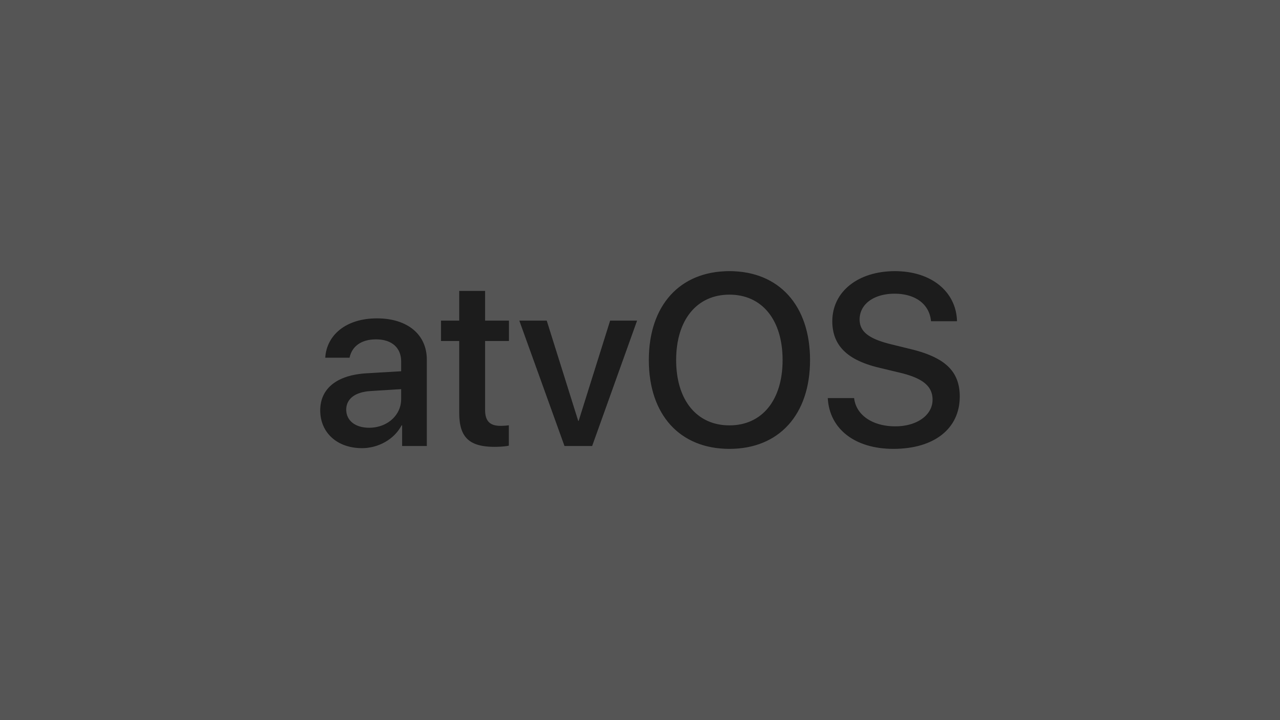
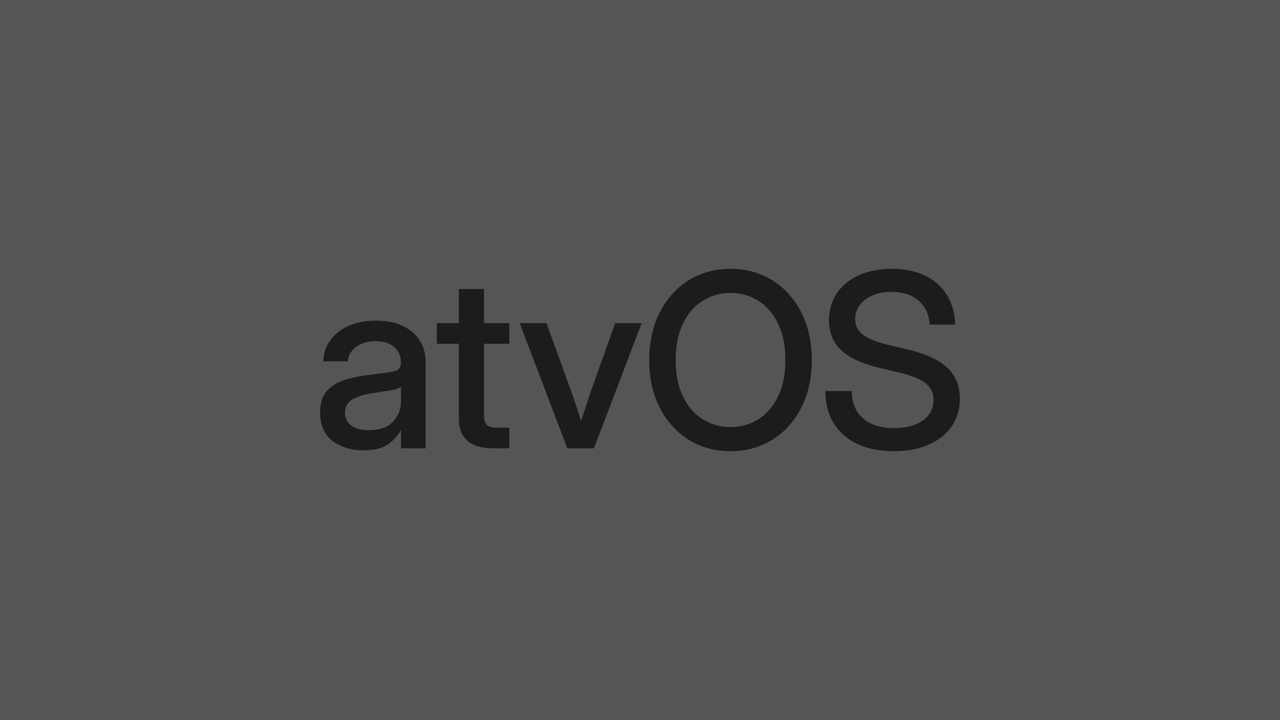
App: the atvOS wordmark in Inter
The wordmark of the app icon, the TV banner and the logo tile in Settings and
setup is now "atvOS" in Inter Display Medium (SIL Open Font License), the same
outlines as the website. The colours and sizes stay: dark grey on the grey tile,
62% of the visible icon width, half the banner width. The Play icon and TV banner
are drawn again from these vectors.

diff --git a/app/src/main/java/app/atvos/launcher/Logo.java b/app/src/main/java/app/atvos/launcher/Logo.java
@@ -12,7 +12,7 @@ final class Logo {
 
     private static final int TILE_DARK = 0xFF555555, TILE_LIGHT = 0xFF7D7C7D;
     /** The width of the wordmark as a fraction of the tile width, and the height-to-width ratio of the wordmark. */
-    private static final float WORDMARK = 0.62f, WORDMARK_ASPECT = 1093f / 3930f;
+    private static final float WORDMARK = 0.62f, WORDMARK_ASPECT = 751f / 2634.8f;
     /** The corner radius as a fraction of the side, and the superellipse exponent of the corners (2 gives a circle). */
     private static final float CORNER = 0.222f, SQUARENESS = 2.2f;
 
